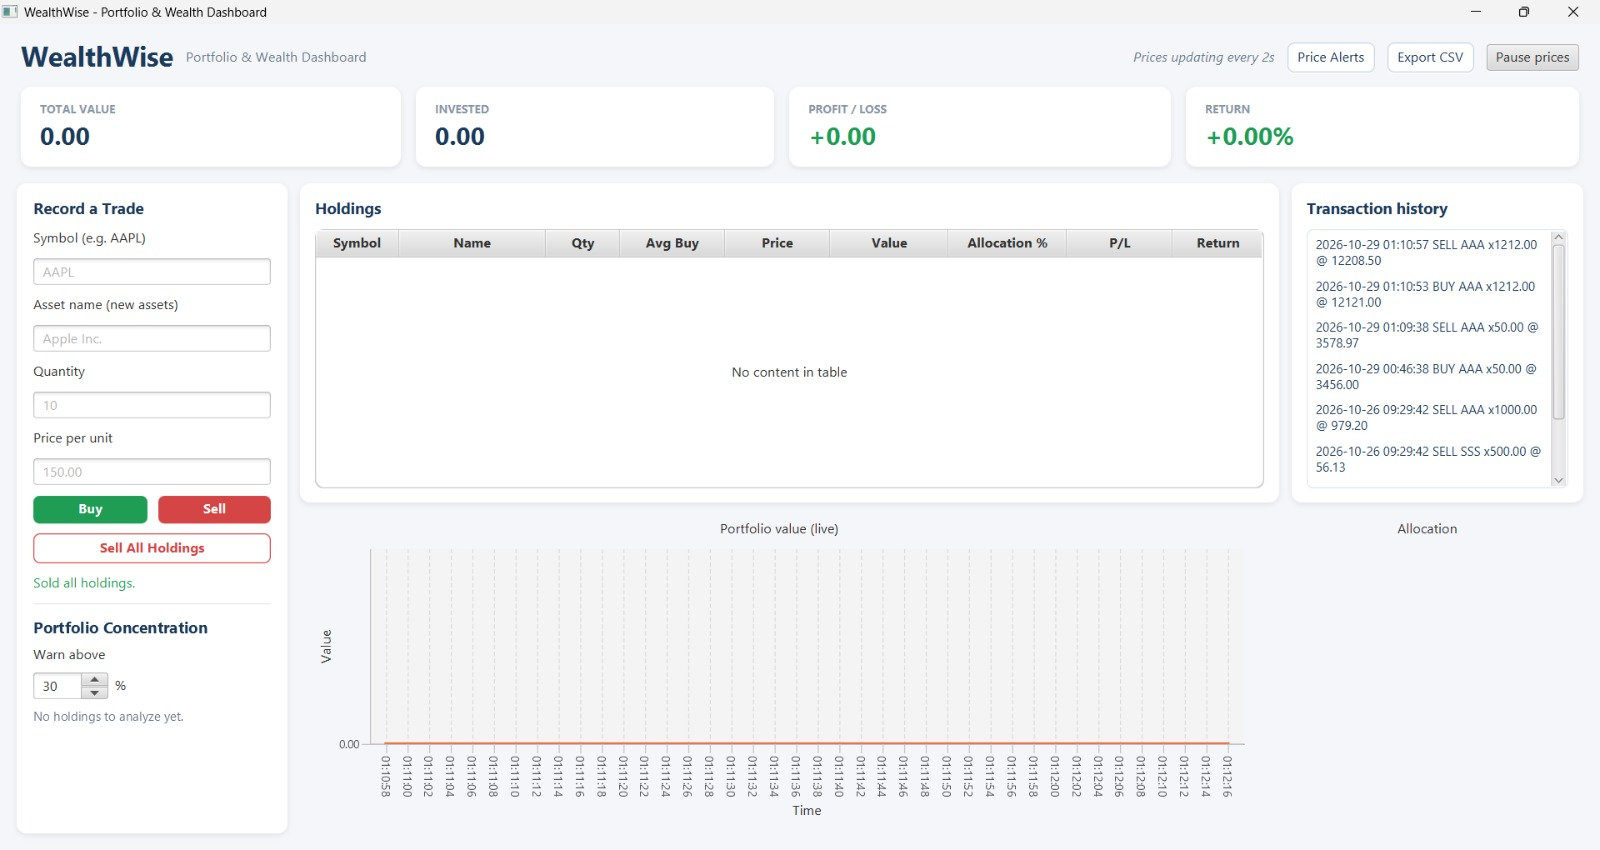
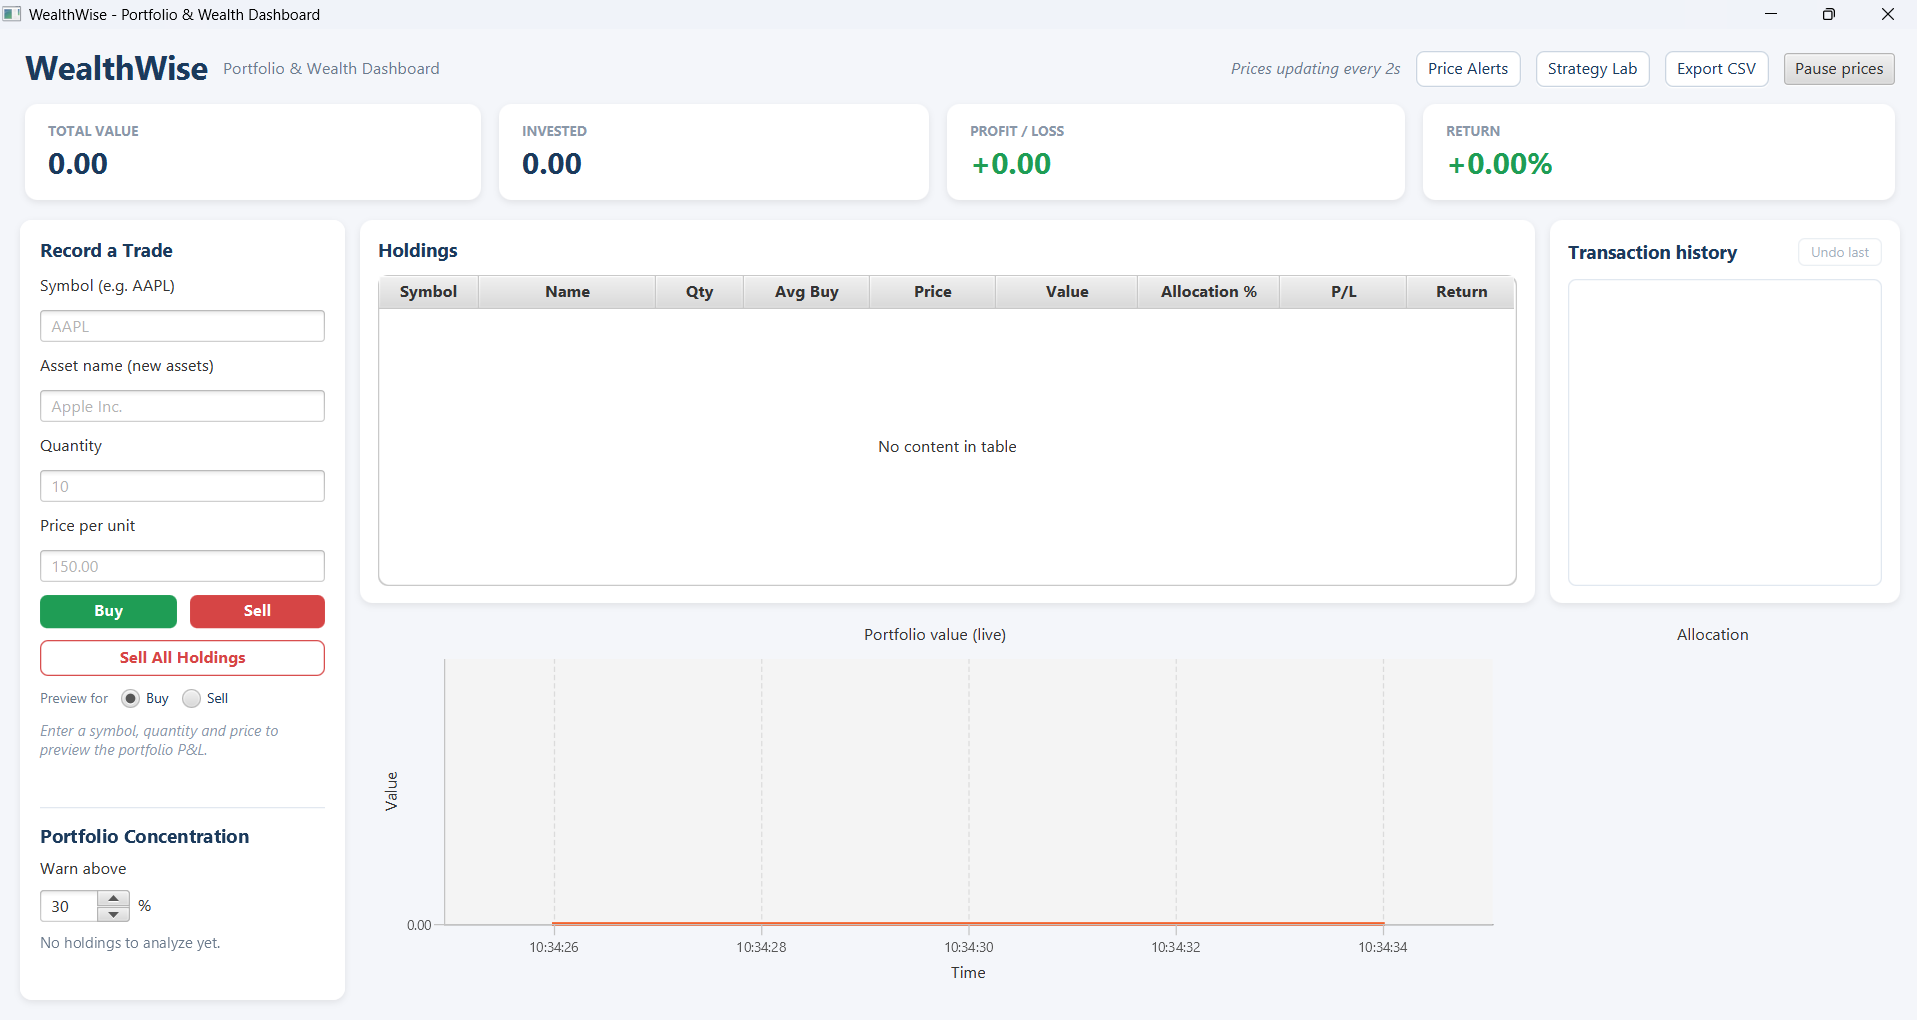
docs: add screenshot gallery and feature overview

diff --git a/README.md b/README.md
@@ -10,6 +10,10 @@
 </p>
 
 <p align="center">
+  <a href="#features">Features</a>
+</p>
+
+<p align="center">
   <img src="screenshots/portfolio-with-assets.png" alt="WealthWise dashboard with summary cards, holdings table, value chart and allocation pie chart" width="100%"><br>
   <sub>The live dashboard: summary cards, holdings with allocation and P/L, transaction history, a value chart and an allocation pie chart.</sub>
 </p>
@@ -17,3 +21,33 @@
 WealthWise is a desktop application for learning how an investment portfolio behaves. Record buys and sells, watch simulated prices move in the background, get warned when too much of your money sits in one asset, set price alerts, and test investing strategies against thousands of possible futures before risking anything. Prices are simulated, never real market data.
 
 Built as a Semester 3 end-semester project for **Advanced Java Programming**. The central Java concept is **multithreading**: a background price engine, a worker thread pool for simulations, and a safe hand-off from background threads to the JavaFX screen thread.
+
+<table>
+  <tr>
+    <th width="50%">Price alerts</th>
+    <th width="50%">Sell All confirmation</th>
+  </tr>
+  <tr>
+    <td valign="top"><img src="screenshots/price-alert-dialog.png" alt="Price alert dialog with asset, target price and condition fields" width="100%"></td>
+    <td valign="top"><img src="screenshots/sell-all-confirmation.png" alt="Warning dialog asking the user to confirm selling every holding" width="100%"></td>
+  </tr>
+  <tr>
+    <td valign="top">Set an upward or downward target on any holding. Each alert triggers once and stays listed until removed.</td>
+    <td valign="top">Closing every position shows how many holdings are affected and their total value, and needs a confirmation.</td>
+  </tr>
+</table>
+
+<details>
+<summary><strong>Empty start screen</strong></summary>
+
+![WealthWise opening screen with an empty portfolio](screenshots/opening-screen.png)
+
+</details>
+
+## Features
+
+- **Trade with confidence.** Buy and sell with input validation, a weighted-average buy price, and protection against selling more than you own. A **trade preview** shows the projected portfolio profit or loss before you commit, **Undo last** reverses up to 50 actions, and **Sell All** asks for confirmation first.
+- **Watch it move.** A background price simulator updates every 2 seconds (pause and resume at any time). The holdings table shows quantity, prices, value, allocation, P/L and return, next to a live value chart and an allocation pie chart.
+- **Stay informed.** Price alerts notify you when a holding crosses a target. The concentration panel warns when any asset exceeds a threshold of your portfolio (30% by default, adjustable).
+- **Test before you trust.** Strategy Lab runs thousands of simulated futures in parallel to compare investing strategies.
+- **Keep your data.** Everything is saved automatically to a local SQLite database, and **Export CSV** writes the summary, holdings, allocation and transactions for spreadsheet software.
